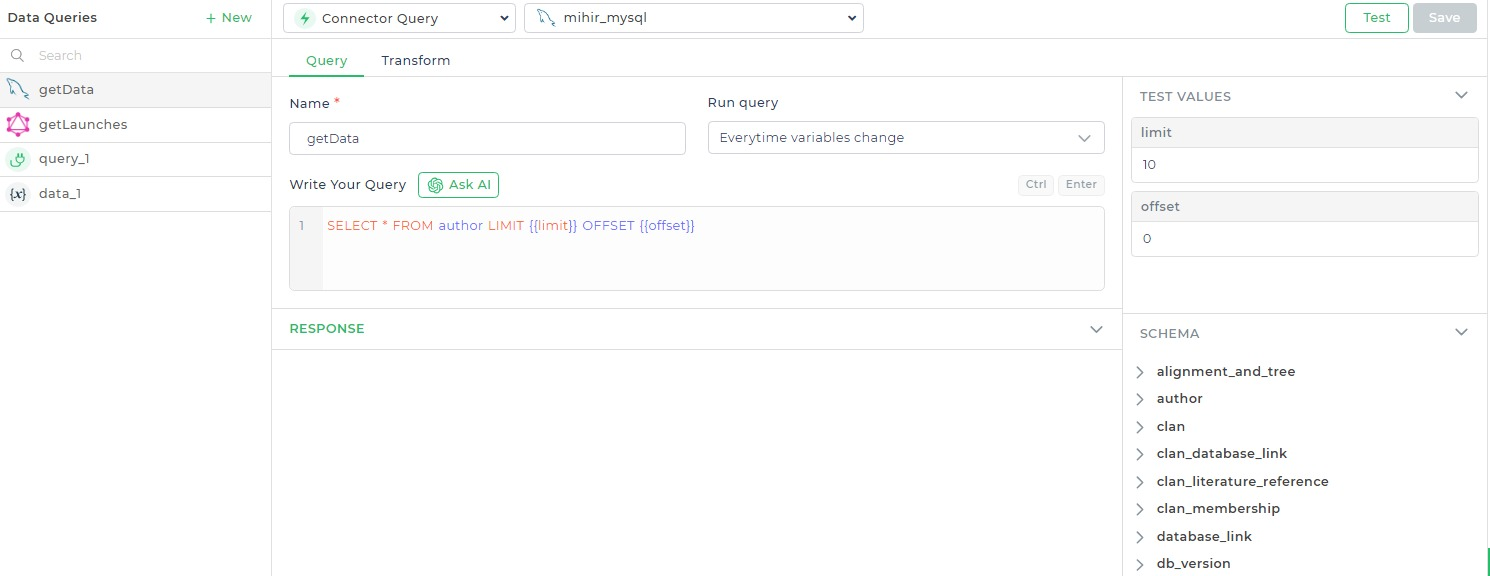
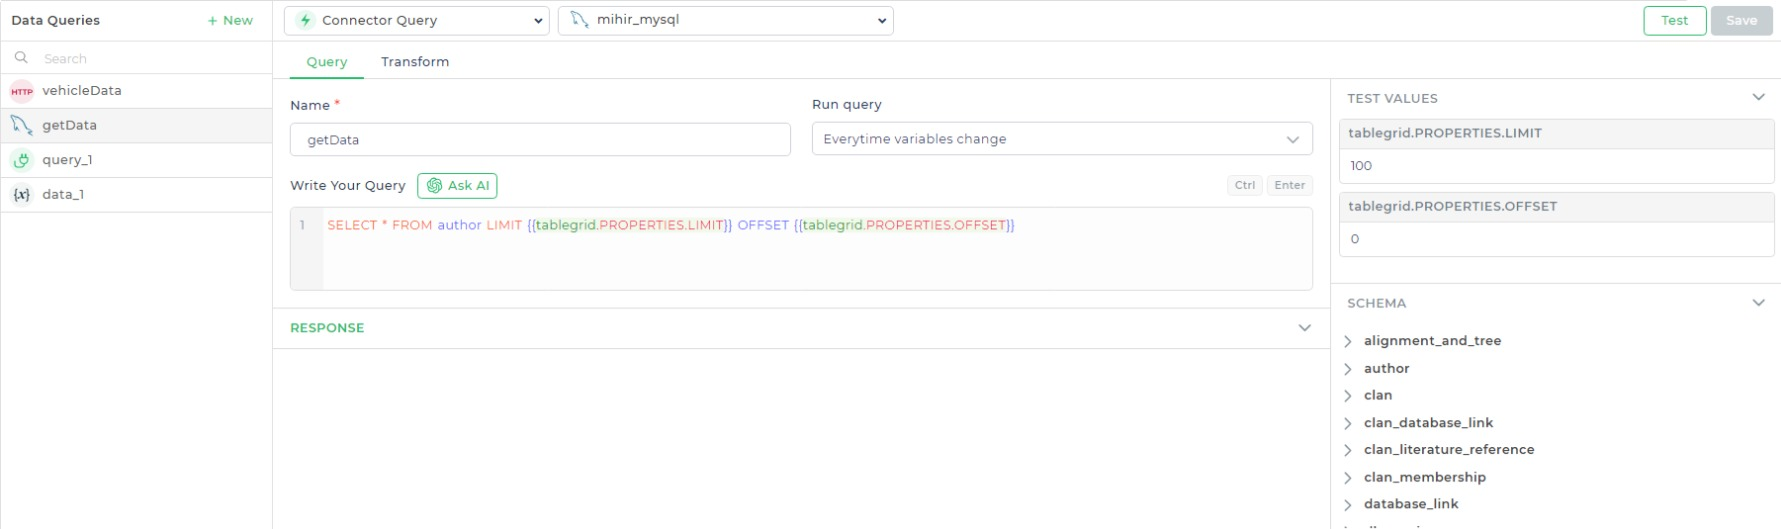
pagination SS

diff --git a/docs/building-apps-concepts/pagination-in-tablegrid.md b/docs/building-apps-concepts/pagination-in-tablegrid.md
@@ -66,7 +66,7 @@ Make sure you have your connector configured. Go to the `table grid` control and
 
 Lets write our query here to perform pagination on data retrieval.
 
-Query: `SELECT * FROM author LIMIT {{limit}} OFFSET {{offset}}`
+Query: `SELECT * FROM author LIMIT {{tablegrid.PROPERTIES.LIMIT}} OFFSET {{tablegrid.PROPERTIES.OFFSET}}`
 
 <figure>
   <Thumbnail src="/img/building-apps-concepts/pagination-tablegrid/mysql.jpeg" alt="MySQL Query with pagination" />
